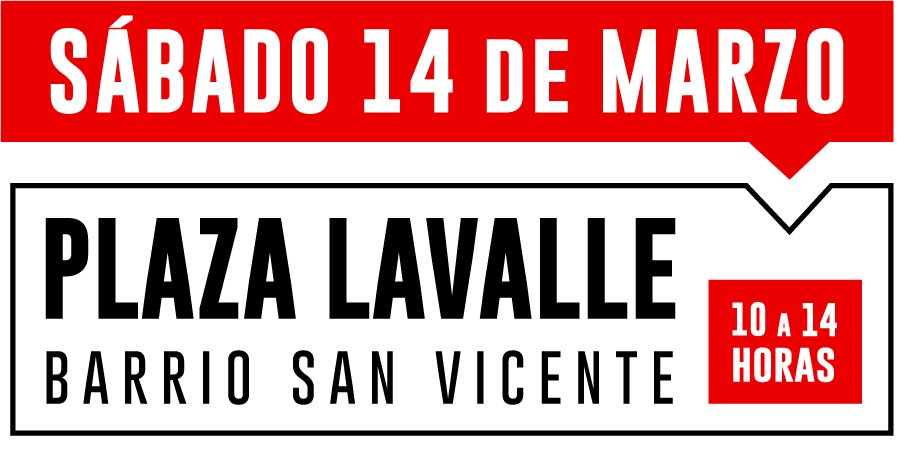
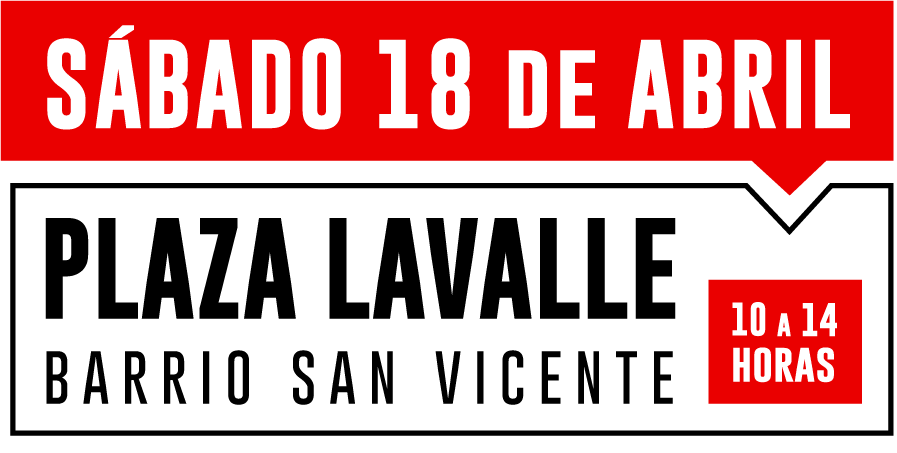
fecha y meta update 18abr26

Changed region(s): [[0.0, 0.0309, 0.9989, 0.4327]]

diff --git a/index.html b/index.html
@@ -31,7 +31,7 @@
   <meta property="og:type" content="website">
   <meta property="og:title" content="Mercado Barrial Itinerante">
   <meta property="og:description" content="Economía social y trabajo cooperativo">
-  <meta property="og:image" content="https://i.imgur.com/iEfnwnp.png">
+  <meta property="og:image" content="https://i.imgur.com/DanGBzL.png">
 
   <!-- Twitter Meta Tags -->
   <meta name="twitter:card" content="summary_large_image">
@@ -39,7 +39,7 @@
   <meta property="twitter:url" content="https://mercadobarrialitinerante.com/">
   <meta name="twitter:title" content="Mercado Barrial Itinerante">
   <meta name="twitter:description" content="Economía social y trabajo cooperativo">
-  <meta name="twitter:image" content="https://i.imgur.com/iEfnwnp.png">
+  <meta name="twitter:image" content="https://i.imgur.com/DanGBzL.png">
 
 </head>
 
